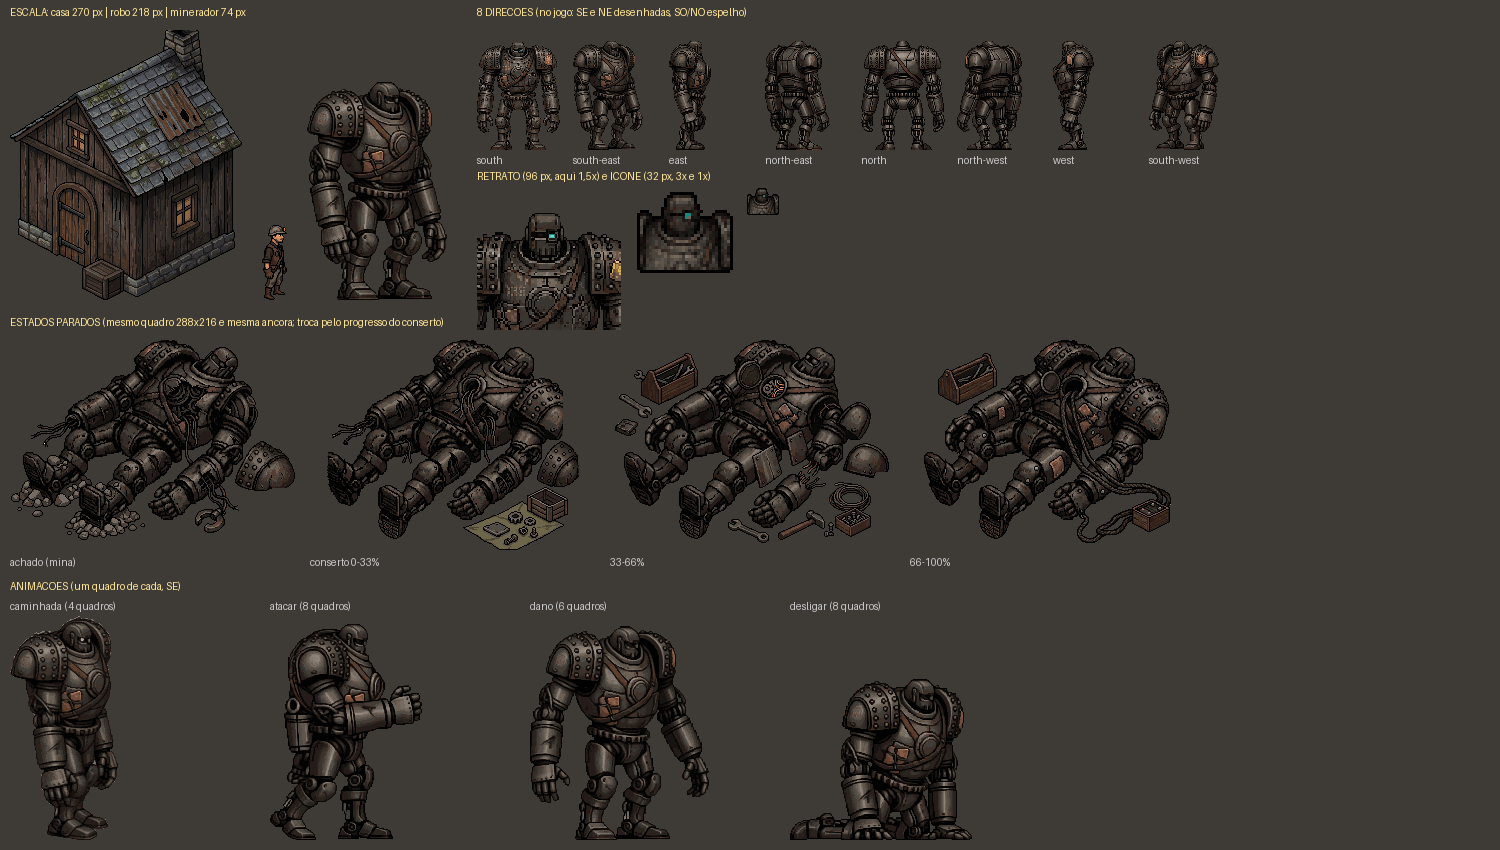
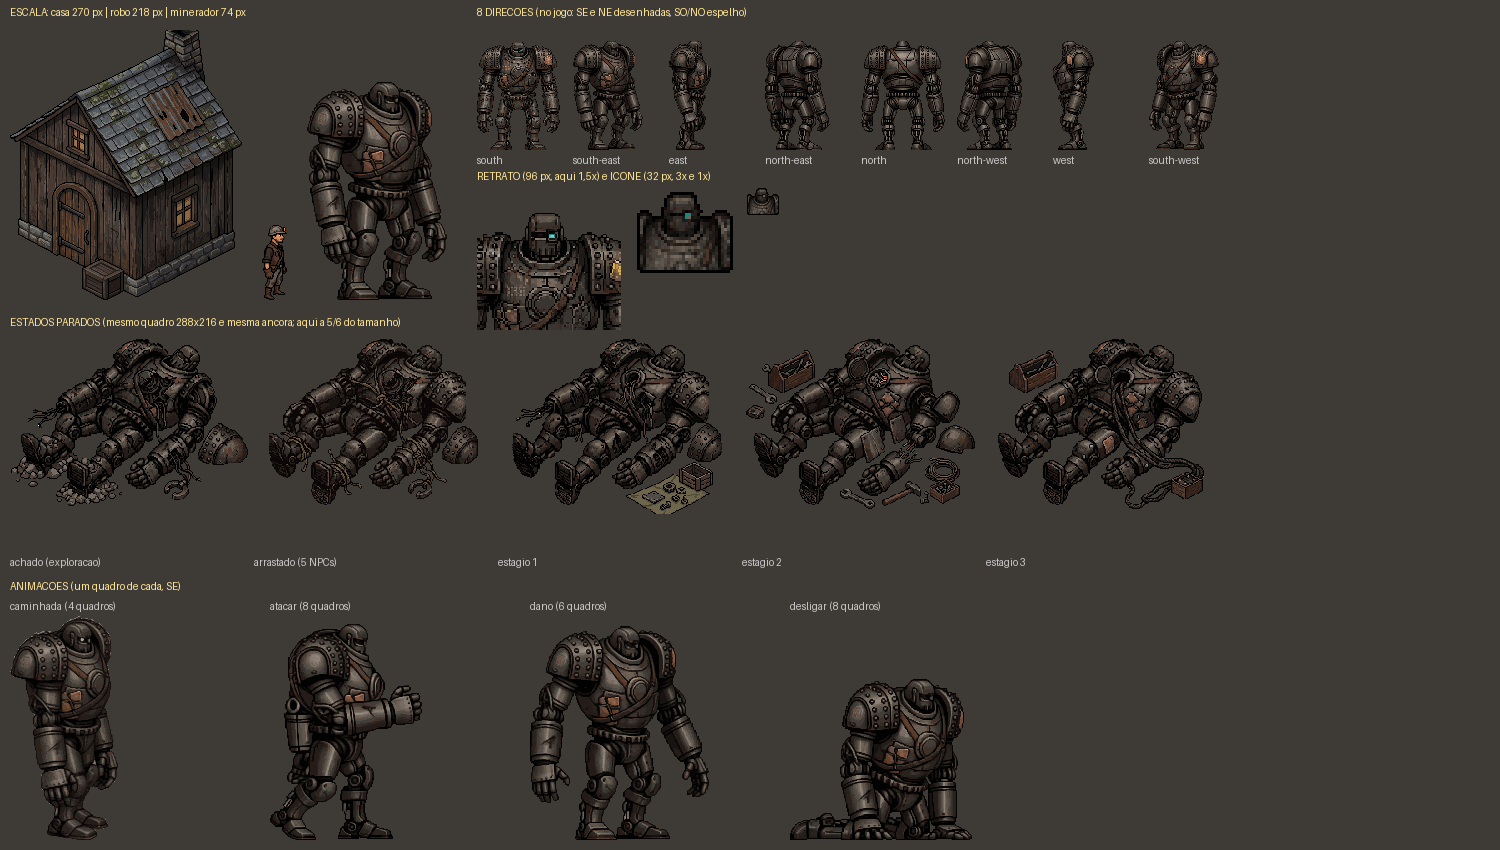
Refactor code structure for improved readability and maintainability

Changed region(s): [[0.0, 0.3671, 0.828, 0.6729], [0.184, 0.6424, 0.2453, 0.6729], [0.3987, 0.6424, 0.4293, 0.6729]]

diff --git a/project.godot/prototipos/camera/arte_iso/robo/prancha_robo.py b/project.godot/prototipos/camera/arte_iso/robo/prancha_robo.py
@@ -76,4 +76,7 @@ for i in range(n):
             j = min(i, q["quadros"] - 1) if a == "desligar" else i % q["quadros"]
             im = Image.open("%s/%s/%d.png" % (a, dr, j)).convert("RGBA")
             im = im.crop((int(ax - CW / 2), int(ay - CH + 8), int(ax + CW / 2), int(ay + 8)))
-            g.paste(im, (k * CW, 16 + r_ * C
+            g.paste(im, (k * CW, 16 + r_ * CH), im)
+    fr.append(g)
+fr[0].save(os.path.join(out, "robo_animacoes.gif"), save_all=True, append_images=fr[1:], duration=150, loop=0)
+print("ok")

diff --git a/docs/arte/prompt05/FLUXO_ROBO.md b/docs/arte/prompt05/FLUXO_ROBO.md
@@ -1,0 +1,75 @@
+# Robô antigo: fluxo de jogo decidido pelo Marco (2026-09-30)
+
+Documento pra integração (Prompts 28–29). **Nada disso está no código ainda.** O `robo.gd` e o
+`finds.gd` de hoje seguem outro fluxo (ver "O que muda no código").
+
+## O fluxo
+
+1. **Achado.** O **pesquisador** passa a fazer **exploração fora da vila**. Numa exploração
+   ele acha o robô, caído e quebrado.
+   - Arte: `robo/estados/achado.png` (no chão, com entulho).
+2. **Arrastar.** Aparece a opção de trazer o robô. O jogo pede **5 NPCs** (quaisquer
+   funções). O jogador manda os 5, e eles **arrastam o robô até o portão** e, do portão, pra
+   dentro da vila.
+   - Arte do robô: `robo/estados/arrastado.png`, deitado, sem entulho, com o braço e a
+     ombreira soltos amarrados em cima.
+   - Arte dos 5: **a caminhada normal, mais devagar**, com a corda da mão até o robô
+     desenhada **por código** (Line2D). Custo 0.
+   - Opcional: animação de "puxar corda" de verdade pros 18 (esqueleto `pull-heavy-object`,
+     ~90 gerações).
+3. **Parado dentro da vila.** Os 5 deixam o robô **deitado num lugar perto do portão**, e ele
+   fica ali.
+   - Arte: `robo/estados/conserto_1.png`.
+4. **Conserto em 3 estágios.** Cada estágio pede **itens**. O jogador coleta e coloca no
+   robô, e quando o estágio fica completo o desenho troca:
+
+   | Estágio | Arte ao começar | Arte quando termina |
+   |---|---|---|
+   | 1 | `conserto_1` (desmontado, peças na lona) | `conserto_2` |
+   | 2 | `conserto_2` (braço e ombreira no chão, ferramentas) | `conserto_3` |
+   | 3 (último) | `conserto_3` (montado, cabos na bateria) | **levanta** → ativo |
+
+   Os 4 desenhos usam o mesmo quadro (288×216) e **a mesma âncora** (`robo/contrato.json`):
+   trocam no lugar, sem pulo.
+5. **Ativo.**
+   - **De dia:** anda pela vila fazendo **ronda** (segurança). Arte: `robo/caminhada/`.
+   - **À noite:** fica **parado em pé na entrada**. Arte: a pose parada (`robo/rotacoes/`).
+   - Combate: `atacar/`, `dano/`, e `desligar/` quando cai (o último quadro fica parado até
+     de manhã).
+
+## Regras de jogo novas
+
+- **Só uma entrada na vila.** O robô guarda essa entrada à noite.
+- **Com o robô ativo, não precisa de guarda.** Pode ter guarda pra ajudar, mas **o guarda
+  ganha um debuff** (ex.: menos ânimo ou menos eficiência, "o robô faz o meu trabalho"). O
+  valor fica pra integração.
+
+## O que muda no código (para a integração)
+
+| Hoje (`robo.gd` / `finds.gd` / `defense.gd`) | Novo |
+|---|---|
+| O robô é um "achado" raro do **fundo da mina** (`finds.gd`, `robot_chance`) | Achado na **exploração do pesquisador**, fora da vila (sistema de exploração novo) |
+| **1 ipezinho carrega** o robô (`carried`), inclusive pelo elevador | **5 NPCs arrastam** até o portão; o robô desliza deitado e a corda é desenhada por código |
+| Fica ao lado da **Oficina** (`drop_point`) | Fica **perto do portão**, dentro da vila |
+| Conserto = **peças raras + créditos + ferro + tempo**, um bloco só (`repair_*`) | **3 estágios, cada um com itens**, e o desenho troca por estágio |
+| De dia fica de guarda no Centro da Vila, à noite patrulha as casas | **De dia ronda pela vila, à noite parado na entrada** |
+| **2 portões** (túnel e poço, `defense.gd`) | **1 entrada** |
+| O guarda não interage com o robô | **Debuff no guarda** com o robô ativo |
+
+## Arte que existe pra cada momento
+
+| Momento | Arquivo |
+|---|---|
+| Achado na exploração | `robo/estados/achado.png` |
+| Sendo arrastado | `robo/estados/arrastado.png` |
+| Parado esperando conserto / estágio 1 | `robo/estados/conserto_1.png` |
+| Estágio 2 | `robo/estados/conserto_2.png` |
+| Estágio 3 | `robo/estados/conserto_3.png` |
+| Ronda | `robo/caminhada/` (4 direções) |
+| Guarda na entrada à noite | `robo/rotacoes/` (parado) |
+| Combate | `robo/atacar/`, `robo/dano/`, `robo/desligar/` |
+| Retrato / ícone | `robo/retrato.png`, `itens/icones/robo.png` |
+
+**Falta, se quiser:** "levantar" (o robô se erguendo de deitado para em pé, quando o
+conserto termina). Hoje a troca seria direta. Uma animação de levantar nesse tamanho custa
+~16 (v3, 2 direções). Dá pra fazer junto com a integração.

diff --git a/docs/arte/prompt05/PROMPT_05_ROBO.md b/docs/arte/prompt05/PROMPT_05_ROBO.md
@@ -34,16 +34,21 @@ O robô de 84 px (`robo/candidatos/b_1.png`) serviu de referência de design pro
 | dano | 6 | v3: tranco pra trás e volta à guarda |
 | desligar / derrubado | 8 | v3: perde a força, cai de joelhos e apoia as mãos; **o último quadro fica parado** (derrubado até de manhã, `stunned` no `robo.gd`). Sem explosão. |
 
-**Deitado: 4 estados parados**, no mesmo quadro (288×216) e com a **mesma âncora**. Trocam no
+**Fluxo de jogo decidido pelo Marco** (exploração do pesquisador → 5 NPCs arrastam até o
+portão → conserto em 3 estágios com itens → ronda de dia e entrada à noite; debuff no guarda):
+`FLUXO_ROBO.md`, pra integração.
+
+**Deitado: 5 estados parados**, no mesmo quadro (288×216) e com a **mesma âncora**. Trocam no
 lugar, como a obra de um prédio. A sobreposição com o robô base é de 96–100%, sem pulo.
 
 | Estado | No jogo (`robo.gd`) | Desenho |
 |---|---|---|
-| `achado` | `found`, no fundo da mina | quebrado: antebraço arrancado com cabos, ombreira caída, peito aberto, entulho nas pernas |
-| `conserto_1` | `base` / conserto 0–33% | limpo na Oficina, ainda desmontado; lona com peças e caixote ao lado |
-| `conserto_2` | conserto 33–66% | braço e ombreira no chão, prontos pra voltar; placas novas, caixa de ferramentas, chaves, martelo, cabo |
-| `conserto_3` | conserto 66–100% | montado, remendos de cobre, cabos do peito até uma bateria |
-| ativo | `active` | levanta: passa pra arte em pé |
+| `achado` | achado na exploração | quebrado: antebraço arrancado com cabos, ombreira caída, peito aberto, entulho nas pernas |
+| `arrastado` | 5 NPCs arrastam (corda por código) | igual, sem entulho, amarrado com cordas no peito, tornozelos e braço |
+| `conserto_1` | parado perto do portão / estágio 1 | ainda desmontado; lona com peças e caixote ao lado |
+| `conserto_2` | estágio 2 | braço e ombreira no chão, prontos pra voltar; placas novas, caixa de ferramentas, chaves, martelo, cabo |
+| `conserto_3` | estágio 3 (último) | montado, remendos de cobre, cabos do peito até uma bateria |
+| ativo | levanta | passa pra arte em pé |
 
 **Retrato** (96×96, busto com o olho ciano), pro Prompt 23, e **ícone** de 32 px, tirado do
 retrato por script (`itens/icones/robo.png`).
@@ -56,7 +61,8 @@ código.
 | Arquivo | O que é |
 |---|---|
 | `prancha_robo.png` | escala (casa × minerador × robô), 8 direções, retrato e ícone, 4 estados, animações |
-| `robo_estados.gif` | achado → conserto 1, 2, 3 → em pé |
+| `robo_estados.gif` | achado → arrastado → estágios 1, 2, 3 → em pé |
+| `FLUXO_ROBO.md` | o fluxo de jogo do robô e o que muda no código |
 | `robo_animacoes.gif` | andar, atacar, dano e desligar (SE e NE) |
 
 Gerado por `arte_iso/robo/prancha_robo.py docs/arte/prompt05`. As folhas de revisão quadro a
@@ -64,7 +70,7 @@ quadro ficam em `robo/<anim>_folha.png` (`folha_robo.py`).
 
 ## Custo
 
-**~400 gerações**, um pouco acima do previsto por causa do tamanho e das refações:
+**~425 gerações**, um pouco acima do previsto por causa do tamanho e das refações:
 
 | Item | Gerações |
 |---|---|
@@ -72,7 +78,7 @@ quadro ficam em `robo/<anim>_folha.png` (`folha_robo.py`).
 | Base gigante (2 versões) + 8 direções | 45 |
 | Animações (andar ×3 tentativas, atacar, dano, desligar, 2 refações de SE) | ~90 |
 | Robô deitado + pé completado | 70 |
-| 4 estados + 2 ombreiras completadas + 2 estados refeitos | ~200 |
+| 5 estados + 2 ombreiras completadas + 2 estados refeitos | ~225 |
 | Retrato | 20 |
 
 Um personagem desse tamanho custa **8 gerações por direção** em cada animação v3 (contra 2 do

diff --git a/docs/arte/INVENTARIO.md b/docs/arte/INVENTARIO.md
@@ -59,7 +59,7 @@ prompts 0–31).
 |---|---|---|---|---|---|---|
 | Lumívoro (invasor) | 16–17 | falta | — | 4 | andar, atacar, morrer (sóbrio) | ~35 |
 | Ferrugento (invasor) | 16–17 | falta | — | 4 | andar, atacar, morrer | ~35 |
-| Robô antigo GIGANTE (218 px, ~80% da casa): achado + 3 estágios de conserto (deitado, mesma âncora) + ativo | 5 | **gerado** | 4 estados parados + retrato + ícone | 8 paradas, 4 andando | andar, atacar, dano, desligar/derrubado | ~400 (feito) |
+| Robô antigo GIGANTE (218 px, ~80% da casa): achado + arrastado + 3 estágios de conserto (deitado, mesma âncora) + ativo; fluxo em prompt05/FLUXO_ROBO.md | 5 | **gerado** | 4 estados parados + retrato + ícone | 8 paradas, 4 andando | andar, atacar, dano, desligar/derrubado | ~425 (feito) |
 | Coelho + toca (coelho fora / só orelhas / toca vazia) | 15 | falta | 3 estados | — | — | ~45 |
 
 ## 5. Prédios (cada construível: obra_1 · obra_2 · obra_3 · pronto; upgrade com obra entre níveis)
